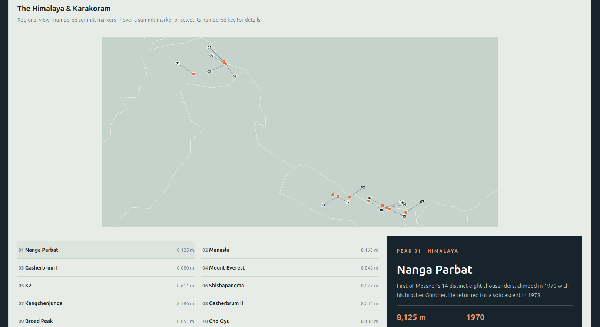
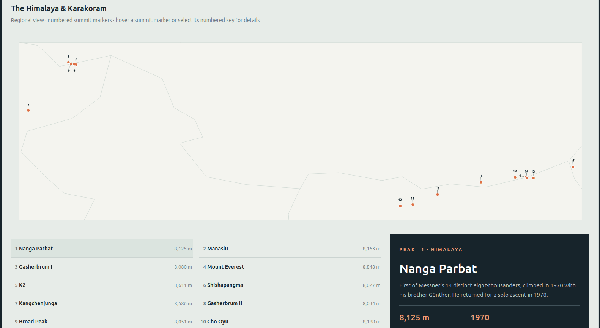
new deployment

diff --git a/compiled/reinhold-messner.js b/compiled/reinhold-messner.js
@@ -1,1 +1,1 @@
-import*as n from"https://cdn.jsdelivr.net/npm/@observablehq/plot@0.6.19/+esm";import{feature as v}from"https://cdn.jsdelivr.net/npm/topojson-client@3/+esm";var l=e=>document.getElementById(e);function m(e,a){let r=l(e);if(!r)throw new Error(`Missing chart container: #${e}`);r.replaceChildren(a)}function x(e,a){let r=l(e);if(!r)return;let i=document.createElement("div");i.className="error",i.textContent=`The map could not load. Check your internet connection and run this prototype through a local web server. (${a.message})`,r.replaceChildren(i)}var[c,d]=await Promise.all([fetch("/json/reinhold-messner/peaks.json").then(e=>{if(!e.ok)throw Error(`Could not load peaks.json (${e.status})`);return e.json()}),fetch("/json/reinhold-messner/ascents.json").then(e=>{if(!e.ok)throw Error(`Could not load ascents.json (${e.status})`);return e.json()})]);if(!Array.isArray(c)||c.length!==14)throw new Error("peaks.json must contain 14 peak records.");if(!Array.isArray(d)||d.length!==18)throw new Error("ascents.json must contain 18 ascent records.");try{let f=function(t){let s=a.find(o=>o.name===t);s&&(h.querySelectorAll("button").forEach(o=>o.setAttribute("aria-pressed",String(o.dataset.peak===t))),w.innerHTML=`<span class="eyebrow">Peak ${s.mapId} \xB7 ${s.range}</span><h3>${s.name}</h3><p>${P[s.name]||`Messner\u2019s first ascent of this eight-thousander was recorded in ${s.first_ascent_year}.`}</p><div class="detail-meta"><div><b>${s.height_m.toLocaleString()} m</b><span>Elevation in source table</span></div><div><b>${s.first_ascent_year}</b><span>Messner ascent year</span></div></div>`)},e={"Nanga Parbat":[-1,.55],Manaslu:[.85,.55],"Gasherbrum I":[-.95,.48],"Mount Everest":[.95,.3],K2:[-.9,.72],Shishapangma:[.85,-.52],Kangchenjunga:[1.05,.6],"Gasherbrum II":[-1.05,-.4],"Broad Peak":[.65,-.7],"Cho Oyu":[-.85,.42],"Annapurna I":[-.95,-.48],"Dhaulagiri I":[.95,-.42],Makalu:[.95,-.42],Lhotse:[1.1,.18]},a=c.map((t,s)=>{let o=e[t.name]||[.6,.4];return{...t,mapId:String(s+1).padStart(2,"0"),labelLon:t.lon+o[0],labelLat:t.lat+o[1]}}),r={type:"FeatureCollection",features:a.flatMap(t=>[{type:"Feature",properties:{},geometry:{type:"Point",coordinates:[t.lon,t.lat]}},{type:"Feature",properties:{},geometry:{type:"Point",coordinates:[t.labelLon,t.labelLat]}}])},i=await fetch("https://cdn.jsdelivr.net/npm/world-atlas@2/countries-110m.json").then(t=>{if(!t.ok)throw Error("Country boundary data unavailable");return t.json()}),k=v(i,i.objects.countries);m("regionalMap",n.plot({width:1120,height:window.matchMedia("(max-width: 700px)").matches?420:560,margin:24,projection:{type:"mercator",domain:r,inset:28},marks:[n.graticule({stroke:"#b7c5c0",strokeOpacity:.65}),n.geo(k,{fill:"#c6d2cc",stroke:"#f4f4ef",strokeWidth:.65}),n.link(a,{x1:"lon",y1:"lat",x2:"labelLon",y2:"labelLat",stroke:"#758681",strokeWidth:1}),n.dot(a,{x:"lon",y:"lat",r:4.5,fill:"#df7047",stroke:"#fff",strokeWidth:1.2,tip:!0,channels:{Peak:"name",Height:t=>`${t.height_m.toLocaleString()} m`,"First ascent":t=>t.first_ascent_year}}),n.text(a,{x:"labelLon",y:"labelLat",text:"mapId",fontSize:10,fontWeight:800,fill:"#17242b",stroke:"#f4f4ef",strokeWidth:3,paintOrder:"stroke"})]}));let h=l("peakList");h.innerHTML=a.slice().sort((t,s)=>Number(t.mapId)-Number(s.mapId)).map(t=>`<button type="button" class="peakitem" data-peak="${t.name}" aria-pressed="false"><b><span class="peak-number">${t.mapId}</span> ${t.name}</b><span>${t.height_m.toLocaleString()} m</span></button>`).join("");let w=l("peakDetail"),P={"Nanga Parbat":"First of Messner\u2019s 14 distinct eight-thousanders, climbed in 1970 with his brother G\xFCnther. He returned for a solo ascent in 1978.",Manaslu:"Messner\u2019s first ascent was recorded in 1972, early in the sequence that stretched across sixteen years.","Gasherbrum I":"First climbed in 1975. Messner returned in 1984 as part of the Gasherbrum I\u2013II traverse.","Mount Everest":"Climbed with Peter Habeler without supplemental oxygen in 1978, then solo without supplemental oxygen in 1980.",K2:"Messner added the world\u2019s second-highest mountain to his sequence in 1979.",Shishapangma:"Climbed in 1981, bringing the cumulative total to six distinct eight-thousanders.",Kangchenjunga:"One of three new eight-thousanders Messner climbed in 1982.","Gasherbrum II":"First climbed in 1982; Messner returned in 1984 during the traverse with Gasherbrum I.","Broad Peak":"One of three new eight-thousanders added in 1982, taking the total to nine.","Cho Oyu":"Climbed in 1983, the tenth distinct eight-thousander in the sequence.","Annapurna I":"Climbed with Hans Kammerlander in 1985 via the north-west face. The precise summit position became the subject of a later debate.","Dhaulagiri I":"Climbed in 1985, the same year as Annapurna I.",Makalu:"One of the final two peaks in the sequence, climbed in 1986.",Lhotse:"Climbed on 16 October 1986, completing Messner\u2019s sequence of 18 ascents on all 14 eight-thousanders."};h.querySelectorAll("button").forEach(t=>t.addEventListener("click",()=>f(t.dataset.peak))),f("Nanga Parbat")}catch(e){x("regionalMap",e)}l("ascentRows").innerHTML=d.map(e=>`<tr><td>${e.year}</td><td>${e.peak}</td><td>${e.height_m.toLocaleString()} m</td><td>${e.counts_toward_14?"Yes":"Repeat"}</td><td>${e.note||""}</td></tr>`).join("");var b=c.map(e=>({year:e.first_ascent_year,peak:e.name})).sort((e,a)=>e.year-a.year),M=[...new Set(b.map(e=>e.year))].sort((e,a)=>e-a),g=0,u=M.map(e=>{let a=b.filter(r=>r.year===e).length;return g+=a,{year:String(e),newPeaks:a,cumulative:g}});function y(e=1986){let a=u.filter(r=>Number(r.year)<=e);m("sequenceChart",n.plot({width:520,height:310,marginLeft:48,marginBottom:38,x:{label:null,tickRotate:-35,type:"point"},y:{label:"Distinct peaks",domain:[0,14],ticks:[0,2,4,6,8,10,12,14],grid:!0},marks:[n.areaY(a,{x:"year",y:"cumulative",fill:"#f4b093",fillOpacity:.42}),n.lineY(a,{x:"year",y:"cumulative",stroke:"#c75b35",strokeWidth:3}),n.dot(a,{x:"year",y:"cumulative",r:5,fill:"#c75b35"}),n.dot(a.filter(r=>Number(r.year)===e),{x:"year",y:"cumulative",r:9,fill:"#17242b",stroke:"#fff",strokeWidth:2}),n.text(a.slice(-1),{x:"year",y:"cumulative",text:r=>`${r.cumulative}/14`,dx:12,dy:-13,fontWeight:700,textAnchor:"start"})]}))}y(1970);m("annualChart",n.plot({width:950,height:320,marginLeft:48,marginBottom:42,x:{label:"Year",tickRotate:-35,type:"band"},y:{label:"New peaks",grid:!0,ticks:[0,1,2,3]},marks:[n.barY(u,{x:"year",y:"newPeaks",fill:"#df7047",inset:3,tip:!0}),n.text(u.filter(e=>e.newPeaks>0),{x:"year",y:"newPeaks",text:"newPeaks",dy:-9,fontSize:11,fontWeight:700})]}));var L=new IntersectionObserver(e=>{e.forEach(a=>{a.isIntersecting&&(document.querySelectorAll(".storybeat").forEach(r=>r.classList.toggle("active",r===a.target)),y(Number(a.target.dataset.year)))})},{rootMargin:"-35% 0px -45% 0px"});document.querySelectorAll(".storybeat").forEach(e=>L.observe(e));var I=l("readingProgress");function p(){let e=document.documentElement.scrollHeight-window.innerHeight;I.style.width=`${e>0?Math.min(100,Math.max(0,window.scrollY/e*100)):0}%`}window.addEventListener("scroll",p,{passive:!0});window.addEventListener("resize",p);p();
+import*as n from"https://cdn.jsdelivr.net/npm/@observablehq/plot@0.6.19/+esm";import{feature as v}from"https://cdn.jsdelivr.net/npm/topojson-client@3/+esm";var l=e=>document.getElementById(e);function m(e,a){let r=l(e);if(!r)throw new Error(`Missing chart container: #${e}`);r.replaceChildren(a)}function x(e,a){let r=l(e);if(!r)return;let i=document.createElement("div");i.className="error",i.textContent=`The map could not load. Check your internet connection and run this prototype through a local web server. (${a.message})`,r.replaceChildren(i)}var[c,h]=await Promise.all([fetch("/json/reinhold-messner/peaks.json").then(e=>{if(!e.ok)throw Error(`Could not load peaks.json (${e.status})`);return e.json()}),fetch("/json/reinhold-messner/ascents.json").then(e=>{if(!e.ok)throw Error(`Could not load ascents.json (${e.status})`);return e.json()})]);if(!Array.isArray(c)||c.length!==14)throw new Error("peaks.json must contain 14 peak records.");if(!Array.isArray(h)||h.length!==18)throw new Error("ascents.json must contain 18 ascent records.");try{let f=function(t){let s=a.find(o=>o.name===t);s&&(d.querySelectorAll("button").forEach(o=>o.setAttribute("aria-pressed",String(o.dataset.peak===t))),w.innerHTML=`<span class="eyebrow">Peak ${s.mapId} \xB7 ${s.range}</span><h3>${s.name}</h3><p>${P[s.name]||`Messner\u2019s first ascent of this eight-thousander was recorded in ${s.first_ascent_year}.`}</p><div class="detail-meta"><div><b>${s.height_m.toLocaleString()} m</b><span>Elevation in source table</span></div><div><b>${s.first_ascent_year}</b><span>Messner ascent year</span></div></div>`)},e={"Mount Everest":[-.15,.1],"Gasherbrum II":[-.12,-.14],"Broad Peak":[-.2,-.12]},a=c.map((t,s)=>{let o=e[t.name]||[.07,.14];return{...t,mapId:String(s+1).padStart(2,"\u2007"),labelLon:t.lon+o[0],labelLat:t.lat+o[1]}}),r={type:"FeatureCollection",features:a.flatMap(t=>[{type:"Feature",properties:{},geometry:{type:"Point",coordinates:[t.lon,t.lat]}},{type:"Feature",properties:{},geometry:{type:"Point",coordinates:[t.labelLon,t.labelLat]}}])},i=await fetch("https://cdn.jsdelivr.net/npm/world-atlas@2/countries-110m.json").then(t=>{if(!t.ok)throw Error("Country boundary data unavailable");return t.json()}),k=v(i,i.objects.countries);m("regionalMap",n.plot({width:1800,height:window.matchMedia("(max-width: 700px)").matches?420:600,margin:24,projection:{type:"stereographic",domain:r,inset:28},marks:[n.graticule({stroke:"#b7c5c0",strokeOpacity:.65}),n.geo(k,{fill:"#f4f4ef",stroke:"#c6d2cc",strokeWidth:.65}),n.link(a,{x1:"lon",y1:"lat",x2:"labelLon",y2:"labelLat",stroke:"#758681",strokeWidth:1}),n.dot(a,{x:"lon",y:"lat",r:4.5,fill:"#df7047",stroke:"#fff",strokeWidth:1.2,tip:!0,channels:{Peak:"name",Height:t=>`${t.height_m.toLocaleString()} m`,"First ascent":t=>t.first_ascent_year}}),n.text(a,{x:"labelLon",y:"labelLat",text:"mapId",fontSize:10,fontWeight:800,fill:"#17242b",stroke:"#f4f4ef",strokeWidth:3,paintOrder:"stroke"})]}));let d=l("peakList");d.innerHTML=a.slice().sort((t,s)=>Number(t.mapId)-Number(s.mapId)).map(t=>`<button type="button" class="peakitem" data-peak="${t.name}" aria-pressed="false"><b><span class="peak-number">${t.mapId}</span> ${t.name}</b><span>${t.height_m.toLocaleString()} m</span></button>`).join("");let w=l("peakDetail"),P={"Nanga Parbat":"First of Messner\u2019s 14 distinct eight-thousanders, climbed in 1970 with his brother G\xFCnther. He returned for a solo ascent in 1978.",Manaslu:"Messner\u2019s first ascent was recorded in 1972, early in the sequence that stretched across sixteen years.","Gasherbrum I":"First climbed in 1975. Messner returned in 1984 as part of the Gasherbrum I\u2013II traverse.","Mount Everest":"Climbed with Peter Habeler without supplemental oxygen in 1978, then solo without supplemental oxygen in 1980.",K2:"Messner added the world\u2019s second-highest mountain to his sequence in 1979.",Shishapangma:"Climbed in 1981, bringing the cumulative total to six distinct eight-thousanders.",Kangchenjunga:"One of three new eight-thousanders Messner climbed in 1982.","Gasherbrum II":"First climbed in 1982; Messner returned in 1984 during the traverse with Gasherbrum I.","Broad Peak":"One of three new eight-thousanders added in 1982, taking the total to nine.","Cho Oyu":"Climbed in 1983, the tenth distinct eight-thousander in the sequence.","Annapurna I":"Climbed with Hans Kammerlander in 1985 via the north-west face. The precise summit position became the subject of a later debate.","Dhaulagiri I":"Climbed in 1985, the same year as Annapurna I.",Makalu:"One of the final two peaks in the sequence, climbed in 1986.",Lhotse:"Climbed on 16 October 1986, completing Messner\u2019s sequence of 18 ascents on all 14 eight-thousanders."};d.querySelectorAll("button").forEach(t=>t.addEventListener("click",()=>f(t.dataset.peak))),f("Nanga Parbat")}catch(e){x("regionalMap",e)}l("ascentRows").innerHTML=h.map(e=>`<tr><td>${e.year}</td><td>${e.peak}</td><td>${e.height_m.toLocaleString()} m</td><td>${e.counts_toward_14?"Yes":"Repeat"}</td><td>${e.note||""}</td></tr>`).join("");var g=c.map(e=>({year:e.first_ascent_year,peak:e.name})).sort((e,a)=>e.year-a.year),L=[...new Set(g.map(e=>e.year))].sort((e,a)=>e-a),b=0,u=L.map(e=>{let a=g.filter(r=>r.year===e).length;return b+=a,{year:String(e),newPeaks:a,cumulative:b}});function y(e=1986){let a=u.filter(r=>Number(r.year)<=e);m("sequenceChart",n.plot({width:520,height:310,marginLeft:48,marginBottom:38,x:{label:null,tickRotate:-35,type:"point"},y:{label:"Distinct peaks",domain:[0,14],ticks:[0,2,4,6,8,10,12,14],grid:!0},marks:[n.areaY(a,{x:"year",y:"cumulative",fill:"#f4b093",fillOpacity:.42}),n.lineY(a,{x:"year",y:"cumulative",stroke:"#c75b35",strokeWidth:3}),n.dot(a,{x:"year",y:"cumulative",r:5,fill:"#c75b35"}),n.dot(a.filter(r=>Number(r.year)===e),{x:"year",y:"cumulative",r:9,fill:"#17242b",stroke:"#fff",strokeWidth:2}),n.text(a.slice(-1),{x:"year",y:"cumulative",text:r=>`${r.cumulative}/14`,dx:12,dy:-13,fontWeight:700,textAnchor:"start"})]}))}y(1970);m("annualChart",n.plot({width:950,height:320,marginLeft:48,marginBottom:42,x:{label:"Year",tickRotate:-35,type:"band"},y:{label:"New peaks",grid:!0,ticks:[0,1,2,3]},marks:[n.barY(u,{x:"year",y:"newPeaks",fill:"#df7047",inset:3,tip:!0}),n.text(u.filter(e=>e.newPeaks>0),{x:"year",y:"newPeaks",text:"newPeaks",dy:-9,fontSize:11,fontWeight:700})]}));var M=new IntersectionObserver(e=>{e.forEach(a=>{a.isIntersecting&&(document.querySelectorAll(".storybeat").forEach(r=>r.classList.toggle("active",r===a.target)),y(Number(a.target.dataset.year)))})},{rootMargin:"-35% 0px -45% 0px"});document.querySelectorAll(".storybeat").forEach(e=>M.observe(e));var $=l("readingProgress");function p(){let e=document.documentElement.scrollHeight-window.innerHeight;$.style.width=`${e>0?Math.min(100,Math.max(0,window.scrollY/e*100)):0}%`}window.addEventListener("scroll",p,{passive:!0});window.addEventListener("resize",p);p();

diff --git a/info/forest-area/index.html b/info/forest-area/index.html
@@ -51,7 +51,7 @@
 
 <div class="postinfo">
 <p>Published on September 19, 2019 (updated on February 23, 2026) by <a href="https://ramiro.org/">Ramiro Gómez</a>. To be informed of new posts, subscribe to the <a href="/rss.xml">RSS feed</a>.
-<br>Tags: <a href="/tags/world/">world</a>, <a href="/tags/forest/">forest</a>, <a href="/tags/environment/">environment</a>, <a href="/tags/deforestation/">deforestation</a>, <a href="/tags/climate-change/">climate change</a>, <a href="/tags/global-warming/">global warming</a>, <a href="/tags/d3/">d3</a>, <a href="/tags/worldbank/">worldbank</a>, <a href="/tags/map/">map</a>.</p>
+<br>Tags: <a href="/tags/map/">map</a>, <a href="/tags/deforestation/">deforestation</a>, <a href="/tags/d3/">d3</a>, <a href="/tags/forest/">forest</a>, <a href="/tags/worldbank/">worldbank</a>, <a href="/tags/climate-change/">climate change</a>, <a href="/tags/world/">world</a>, <a href="/tags/global-warming/">global warming</a>, <a href="/tags/environment/">environment</a>.</p>
 </div>    </main>
     <aside class="sidebar">
 

diff --git a/info/mentor-author-graph/index.html b/info/mentor-author-graph/index.html
@@ -58,7 +58,7 @@
 
 <div class="postinfo">
 <p>Published on November 15, 2018 (updated on February 16, 2026) by <a href="https://ramiro.org/">Ramiro Gómez</a>. To be informed of new posts, subscribe to the <a href="/rss.xml">RSS feed</a>.
-<br>Tags: <a href="/tags/sigmajs/">sigmajs</a>, <a href="/tags/network-graph/">network graph</a>, <a href="/tags/networkx/">networkx</a>, <a href="/tags/gephi/">gephi</a>, <a href="/tags/authors/">authors</a>, <a href="/tags/books/">books</a>.</p>
+<br>Tags: <a href="/tags/gephi/">gephi</a>, <a href="/tags/books/">books</a>, <a href="/tags/authors/">authors</a>, <a href="/tags/network-graph/">network graph</a>, <a href="/tags/sigmajs/">sigmajs</a>, <a href="/tags/networkx/">networkx</a>.</p>
 <p>Disclosure: As an Amazon Associate I earn commissions from qualifying purchases made via links on this page. Please see the <a href="/about/">about page</a> for more information.</p></div></div>
 
 <footer>

diff --git a/info/co2-emissions/index.html b/info/co2-emissions/index.html
@@ -51,7 +51,7 @@
 
 <div class="postinfo">
 <p>Published on September 24, 2019 (updated on February 23, 2026) by <a href="https://ramiro.org/">Ramiro Gómez</a>. To be informed of new posts, subscribe to the <a href="/rss.xml">RSS feed</a>.
-<br>Tags: <a href="/tags/world/">world</a>, <a href="/tags/environment/">environment</a>, <a href="/tags/climate-change/">climate change</a>, <a href="/tags/global-warming/">global warming</a>, <a href="/tags/d3/">d3</a>, <a href="/tags/worldbank/">worldbank</a>, <a href="/tags/map/">map</a>.</p>
+<br>Tags: <a href="/tags/map/">map</a>, <a href="/tags/d3/">d3</a>, <a href="/tags/worldbank/">worldbank</a>, <a href="/tags/climate-change/">climate change</a>, <a href="/tags/world/">world</a>, <a href="/tags/global-warming/">global warming</a>, <a href="/tags/environment/">environment</a>.</p>
 </div>    </main>
     <aside class="sidebar">
 

diff --git a/vis/world-aid-transparency/index.html b/vis/world-aid-transparency/index.html
@@ -124,7 +124,7 @@
 
 <div class="postinfo">
 <p>Published on November 23, 2012 (updated on November 11, 2026) by <a href="https://ramiro.org/">Ramiro Gómez</a>. To be informed of new posts, subscribe to the <a href="/rss.xml">RSS feed</a>.
-<br>Tags: <a href="/tags/scatter-plot/">scatter plot</a>, <a href="/tags/bar-chart/">bar chart</a>, <a href="/tags/d3/">d3</a>, <a href="/tags/contest/">contest</a>, <a href="/tags/human-development/">human development</a>, <a href="/tags/map/">map</a>.</p>
+<br>Tags: <a href="/tags/scatter-plot/">scatter plot</a>, <a href="/tags/map/">map</a>, <a href="/tags/bar-chart/">bar chart</a>, <a href="/tags/human-development/">human development</a>, <a href="/tags/contest/">contest</a>, <a href="/tags/d3/">d3</a>.</p>
 </div></div>
 <div id="footer" class="container-fluid">
     <footer>

diff --git a/story/rail-suicides-europe/index.html b/story/rail-suicides-europe/index.html
@@ -83,7 +83,7 @@ very different stories.</p>
 
 <div class="postinfo">
 <p>Published on September 12, 2013 (updated on November 11, 2026) by <a href="https://ramiro.org/">Ramiro Gómez</a>. To be informed of new posts, subscribe to the <a href="/rss.xml">RSS feed</a>.
-<br>Tags: <a href="/tags/guardian/">guardian</a>, <a href="/tags/europe/">europe</a>, <a href="/tags/data-story/">data story</a>, <a href="/tags/bar-chart/">bar chart</a>, <a href="/tags/datawrapper/">datawrapper</a>, <a href="/tags/pandas/">pandas</a>.</p>
+<br>Tags: <a href="/tags/bar-chart/">bar chart</a>, <a href="/tags/guardian/">guardian</a>, <a href="/tags/datawrapper/">datawrapper</a>, <a href="/tags/pandas/">pandas</a>, <a href="/tags/data-story/">data story</a>, <a href="/tags/europe/">europe</a>.</p>
 </div></div>
 
 <footer>

diff --git a/info/big-sister-cities/index.html b/info/big-sister-cities/index.html
@@ -70,7 +70,7 @@
 
 <div class="postinfo">
 <p>Published on April 26, 2018 (updated on February 14, 2026) by <a href="https://ramiro.org/">Ramiro Gómez</a>. To be informed of new posts, subscribe to the <a href="/rss.xml">RSS feed</a>.
-<br>Tags: <a href="/tags/sigmajs/">sigmajs</a>, <a href="/tags/network-graph/">network graph</a>, <a href="/tags/diplomacy/">diplomacy</a>, <a href="/tags/cities/">cities</a>, <a href="/tags/gephi/">gephi</a>, <a href="/tags/networkx/">networkx</a>.</p>
+<br>Tags: <a href="/tags/cities/">cities</a>, <a href="/tags/gephi/">gephi</a>, <a href="/tags/diplomacy/">diplomacy</a>, <a href="/tags/network-graph/">network graph</a>, <a href="/tags/sigmajs/">sigmajs</a>, <a href="/tags/networkx/">networkx</a>.</p>
 </div>    </main>
     <aside class="sidebar">
 

diff --git a/vis/evolution-internet-users/index.html b/vis/evolution-internet-users/index.html
@@ -47,7 +47,7 @@
 
 <div class="postinfo">
 <p>Published on December 23, 2012 (updated on November 11, 2026) by <a href="https://ramiro.org/">Ramiro Gómez</a>. To be informed of new posts, subscribe to the <a href="/rss.xml">RSS feed</a>.
-<br>Tags: <a href="/tags/scatterplot/">scatterplot</a>, <a href="/tags/animation/">animation</a>, <a href="/tags/d3/">d3</a>, <a href="/tags/interactive/">interactive</a>, <a href="/tags/internet/">internet</a>, <a href="/tags/history/">history</a>.</p>
+<br>Tags: <a href="/tags/internet/">internet</a>, <a href="/tags/animation/">animation</a>, <a href="/tags/scatterplot/">scatterplot</a>, <a href="/tags/d3/">d3</a>, <a href="/tags/history/">history</a>, <a href="/tags/interactive/">interactive</a>.</p>
 </div></div>
 
 <footer>

diff --git a/story/coastal-mountain-walks/index.html b/story/coastal-mountain-walks/index.html
@@ -621,7 +621,7 @@ line = base.mark_line(color='orange', strokeWidth=3).encode(
 
 <div class="postinfo">
 <p>Published on February 13, 2026 (updated on February 14, 2026) by <a href="https://ramiro.org/">Ramiro Gómez</a>. To be informed of new posts, subscribe to the <a href="/rss.xml">RSS feed</a>.
-<br>Tags: <a href="/tags/jupyter-notebook/">jupyter notebook</a>, <a href="/tags/health-data/">health data</a>, <a href="/tags/spain/">spain</a>, <a href="/tags/fitness-analytics/">fitness analytics</a>.</p>
+<br>Tags: <a href="/tags/spain/">spain</a>, <a href="/tags/health-data/">health data</a>, <a href="/tags/fitness-analytics/">fitness analytics</a>, <a href="/tags/jupyter-notebook/">jupyter notebook</a>.</p>
 </div></div>
 
 <footer>

diff --git a/info/programming-languages-influence-network/index.html b/info/programming-languages-influence-network/index.html
@@ -109,7 +109,7 @@
 
 <div class="postinfo">
 <p>Published on September 07, 2012 (updated on January 24, 2019) by <a href="https://ramiro.org/">Ramiro Gómez</a>. To be informed of new posts, subscribe to the <a href="/rss.xml">RSS feed</a>.
-<br>Tags: <a href="/tags/sigmajs/">sigmajs</a>, <a href="/tags/network-graph/">network graph</a>, <a href="/tags/networkx/">networkx</a>, <a href="/tags/gephi/">gephi</a>, <a href="/tags/programming/">programming</a>.</p>
+<br>Tags: <a href="/tags/gephi/">gephi</a>, <a href="/tags/programming/">programming</a>, <a href="/tags/network-graph/">network graph</a>, <a href="/tags/sigmajs/">sigmajs</a>, <a href="/tags/networkx/">networkx</a>.</p>
 </div>    </main>
     <aside class="sidebar">
 

diff --git a/info/programmers-search-relations/index.html b/info/programmers-search-relations/index.html
@@ -56,7 +56,7 @@
 
 <div class="postinfo">
 <p>Published on March 06, 2013 (updated on February 14, 2026) by <a href="https://ramiro.org/">Ramiro Gómez</a>. To be informed of new posts, subscribe to the <a href="/rss.xml">RSS feed</a>.
-<br>Tags: <a href="/tags/sigmajs/">sigmajs</a>, <a href="/tags/network-graph/">network graph</a>, <a href="/tags/networkx/">networkx</a>, <a href="/tags/gephi/">gephi</a>, <a href="/tags/programming/">programming</a>.</p>
+<br>Tags: <a href="/tags/gephi/">gephi</a>, <a href="/tags/programming/">programming</a>, <a href="/tags/network-graph/">network graph</a>, <a href="/tags/sigmajs/">sigmajs</a>, <a href="/tags/networkx/">networkx</a>.</p>
 </div>    </main>
     <aside class="sidebar">
 

diff --git a/info/npm-packages-dependencies/index.html b/info/npm-packages-dependencies/index.html
@@ -47,7 +47,7 @@
 
 <div class="postinfo">
 <p>Published on July 15, 2013 (updated on February 14, 2026) by <a href="https://ramiro.org/">Ramiro Gómez</a>. To be informed of new posts, subscribe to the <a href="/rss.xml">RSS feed</a>.
-<br>Tags: <a href="/tags/sigmajs/">sigmajs</a>, <a href="/tags/network-graph/">network graph</a>, <a href="/tags/gephi/">gephi</a>, <a href="/tags/nodejs/">nodejs</a>, <a href="/tags/programming/">programming</a>.</p>
+<br>Tags: <a href="/tags/gephi/">gephi</a>, <a href="/tags/nodejs/">nodejs</a>, <a href="/tags/programming/">programming</a>, <a href="/tags/network-graph/">network graph</a>, <a href="/tags/sigmajs/">sigmajs</a>.</p>
 </div>    </main>
     <aside class="sidebar">
 
